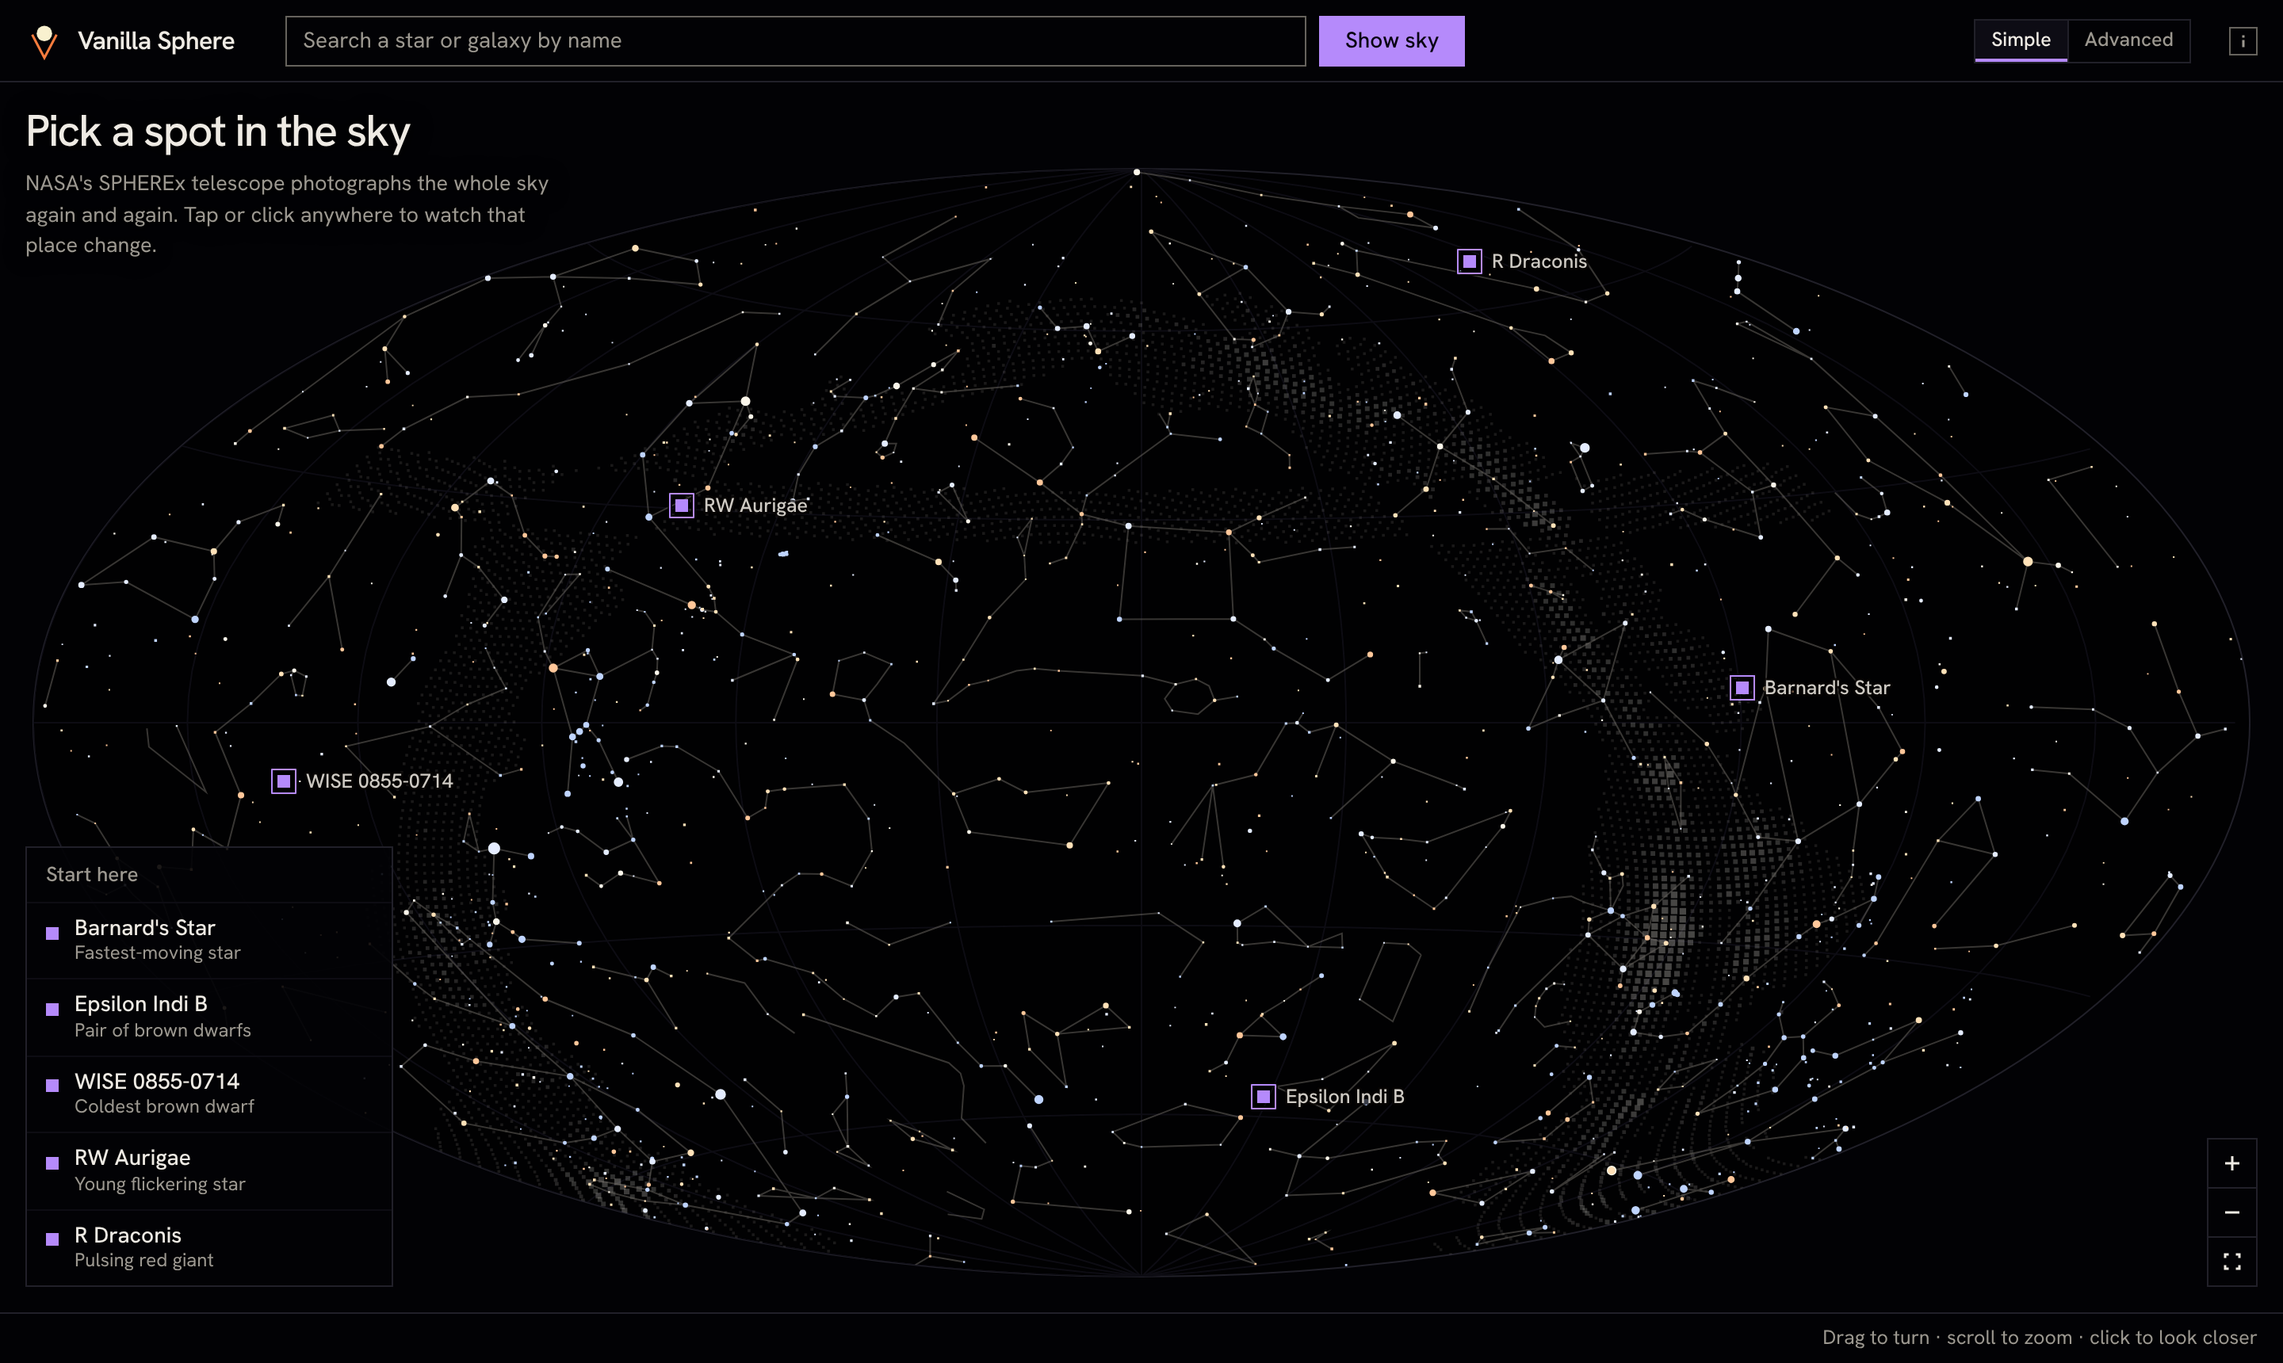
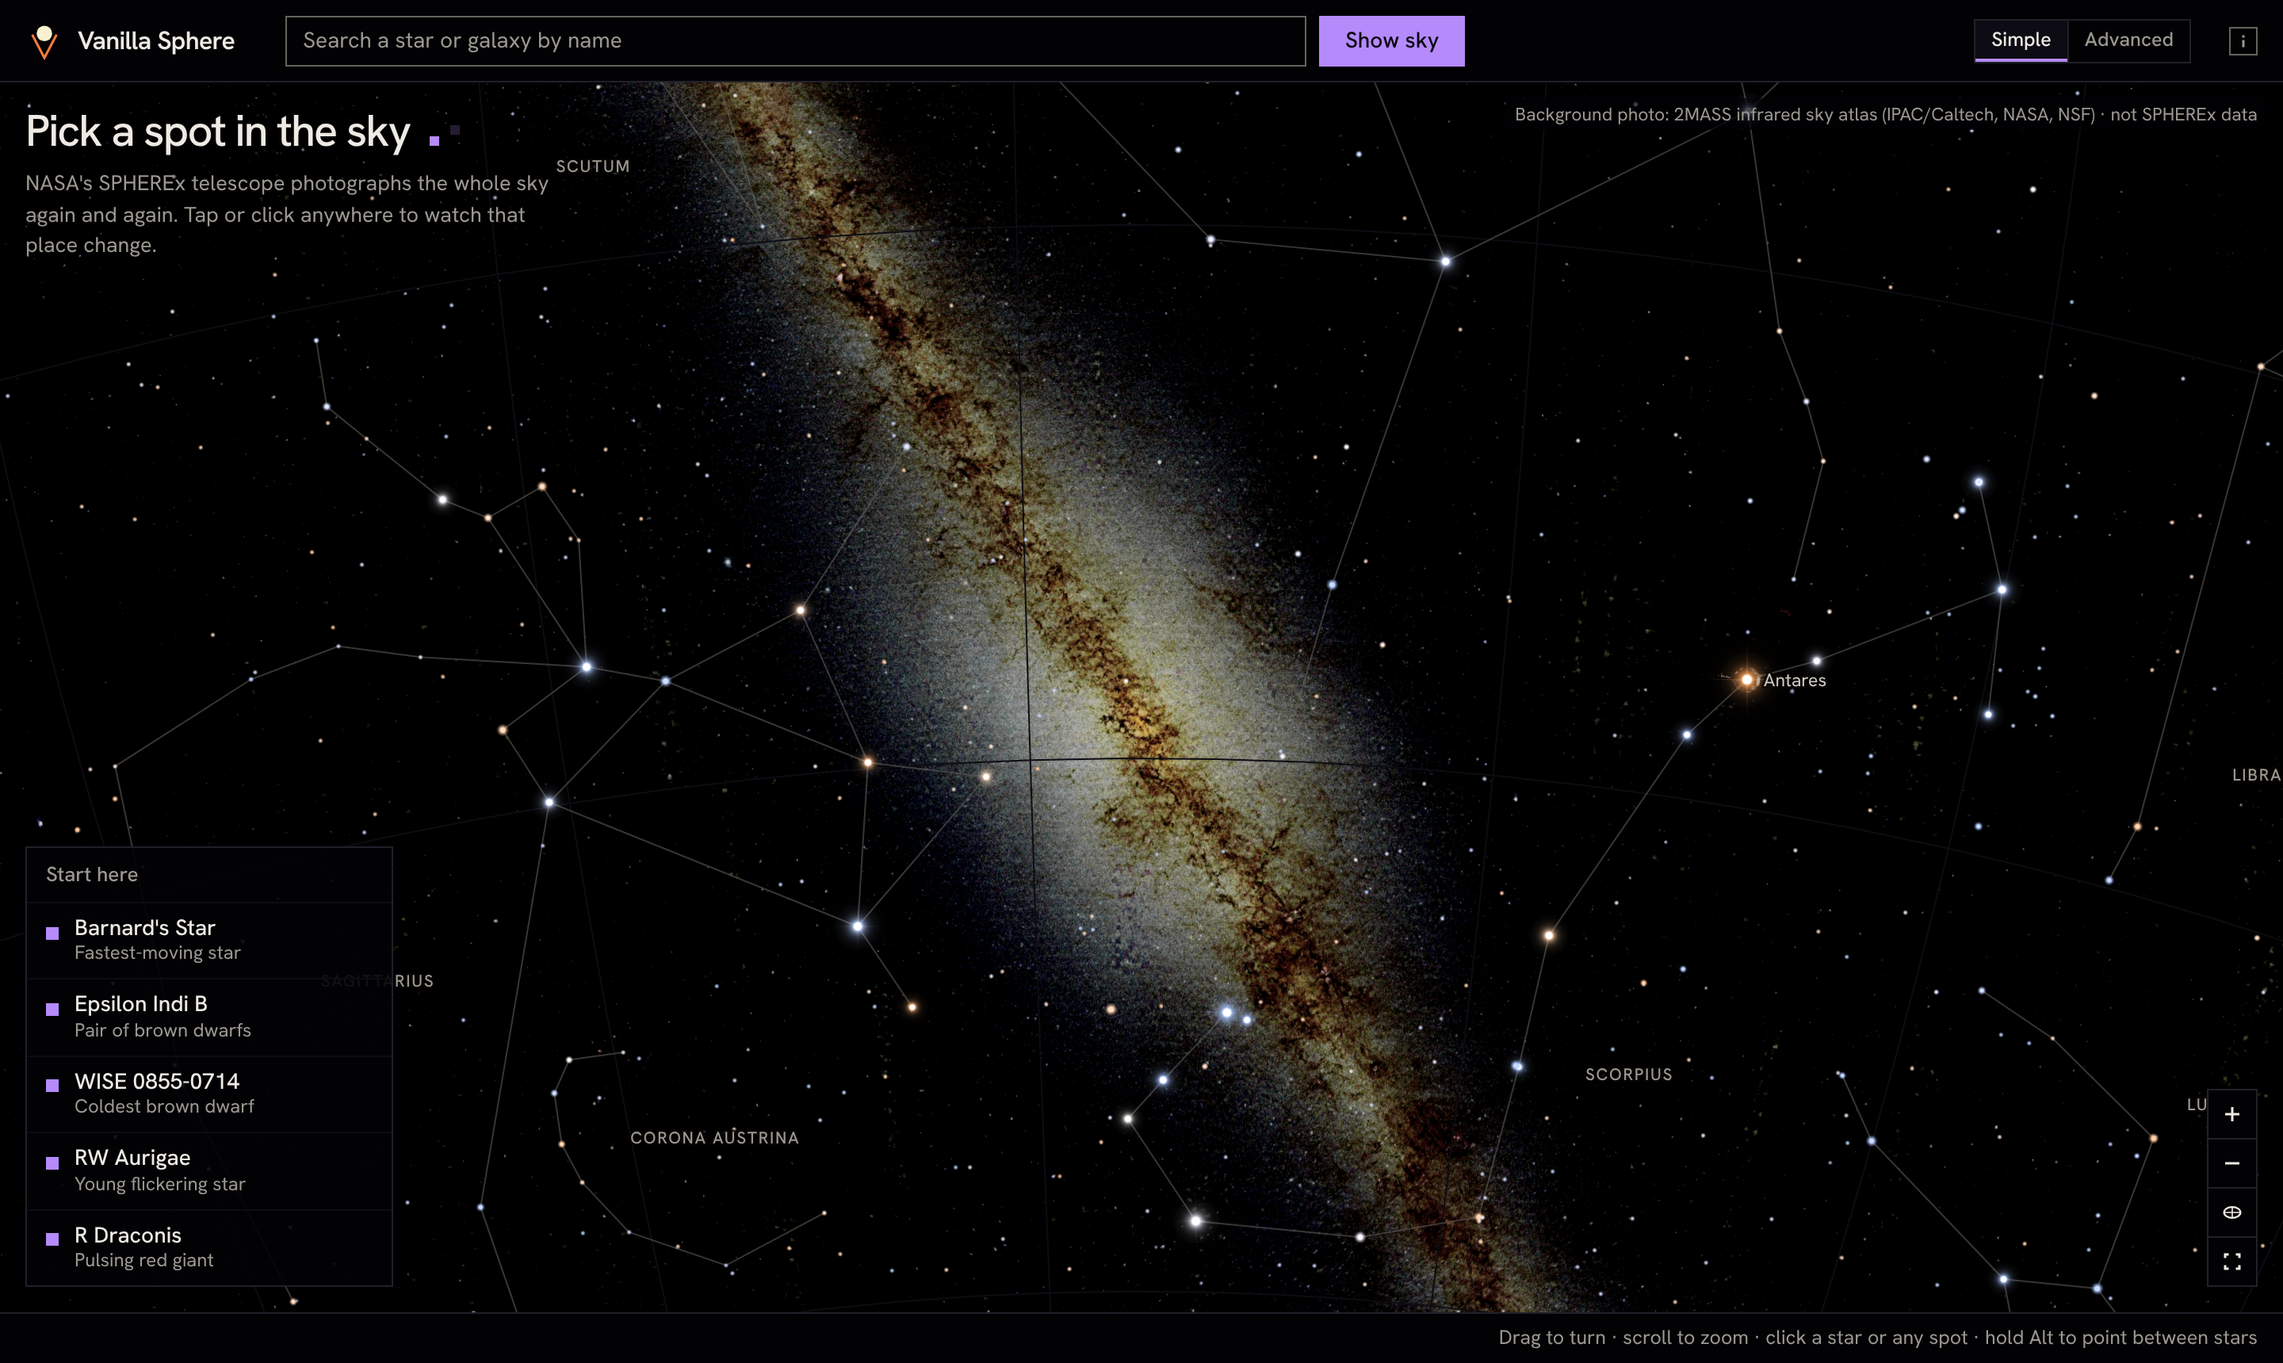
Open the sky map on the centre of the Milky Way
The map no longer starts on the whole sky. The first view looks at the
Galactic Centre (RA 266.4, Dec -29) with about 64 degrees of sky across
the screen, so the 2MASS photograph is visible from the start, with
Sagittarius to the left and Antares to the right. The heading stays on
the map until the visitor moves it. Zooming out is not limited.

Star names are counted from the whole-sky zoom, so a phone does not open
on a page of names. The note that names the photograph moves to the top
right (bottom left on phones) so it does not sit under the heading.
Asset version 30.

diff --git a/web/starmap.js b/web/starmap.js
@@ -12,6 +12,16 @@ const SkyMap = (() => {
   let cv, ctx, wrap, opt = {}, C = {};
   let W = 0, H = 0, dpr = 1, s0 = 1, cx = 0, cy = 0;
   const view = {ra: 0, dec: 0, k: 1};
+  /* The first view: the centre of the Milky Way, close enough that the sky photograph shows at full
+     strength, with Sagittarius to the left and Antares and Scorpius to the right. The zoom is set by
+     how much sky fits: `across` degrees over the width, never less than `tall` degrees over the
+     height, and at least `least` times the whole-sky zoom (where the photograph is fully in).
+     `fresh` is true until the visitor moves the map; the heading stays on the map that long. */
+  const OPEN = {ra: 266.4, dec: -29, across: 64, tall: 28, least: 4};
+  /* Stars down to the third magnitude get their names this many times closer than the whole sky.
+     The first view stays just short of it, so it opens with the map, not with a page of names. */
+  const NAMES_ALL = 6;
+  let fresh = false, wasFresh = null;
   let rot = null;                       // cos/sin of the centre, set once per frame
   let sky = null, stars = null, mw = null, cons = [], names = [], cells = null;
   let pins = [], mark = null, hover = null, hoverPin = null, hoverCon = null, hoverStar = null, busyAt = null, labels = false, wasZoomed = null;
@@ -152,6 +162,7 @@ const SkyMap = (() => {
   }
   /* The smallest zoom shows the whole sky; on a tall screen it starts closer so the sky is not a thin strip. */
   function homeZoom() { return Math.max(1, Math.min(3.2, 0.58 * H / (2 * R2 * s0))); }
+  function openZoom() { const h = homeZoom(); return Math.max(OPEN.least * h, Math.min(0.97 * NAMES_ALL * h, Math.min(W / OPEN.across, H / OPEN.tall) / (s0 * D))); }
   function redraw() { if (!dirty) { dirty = true; requestAnimationFrame(draw); } }
   /* which stars are drawn at this zoom, and how large */
   const magLimit = () => Math.min(6.5, (W < 700 ? 4.4 : 4.9) + 1.15 * Math.log2(view.k));
@@ -170,7 +181,7 @@ const SkyMap = (() => {
     dirty = false;
     if (!cv || !W || !shown) return;
     const zoomed = view.k > homeZoom() * 1.35;
-    if (zoomed !== wasZoomed) { wasZoomed = zoomed; if (opt.onView) opt.onView({zoomed}); }
+    if (zoomed !== wasZoomed || fresh !== wasFresh) { wasZoomed = zoomed; wasFresh = fresh; if (opt.onView) opt.onView({zoomed, opening: fresh}); }
     setRot();
     const s = s0 * view.k, p = [0, 0, 0], q = [0, 0, 0];
     ctx.setTransform(dpr, 0, 0, dpr, 0, 0);
@@ -314,10 +325,12 @@ const SkyMap = (() => {
       }
       if ("letterSpacing" in ctx) ctx.letterSpacing = "0px";
     }
-    if (view.k >= 2.4) {
+    // (counted from the whole-sky zoom, so a phone, which starts closer, does not fill up with names)
+    const closer = view.k / homeZoom();
+    if (closer >= 2.4) {
       ctx.font = `11.5px ${C.sans}`; ctx.textAlign = "left";
       for (const n of names) {
-        if (n.mag > (view.k >= 6 ? 3 : 1.6)) continue;
+        if (n.mag > (closer >= NAMES_ALL ? 3 : 1.6)) continue;
         project(n.v[0], n.v[1], n.v[2], p);
         if (onScreen(p, 10)) halo(n.name, p[0] + Math.max(8, 1.5 * starRadius(n.mag, grow) + 4), p[1] + 4, C.ink2);
       }
@@ -367,14 +380,14 @@ const SkyMap = (() => {
   function pan(dx, dy) {
     const s = s0 * view.k;
     view.ra += dx / s / D / Math.max(0.25, Math.cos(view.dec * D));
-    view.dec += dy / s / D;
+    view.dec += dy / s / D; fresh = false;
     clampView(); redraw();
   }
   /* zoom about a canvas point: the sky under it stays under it */
   function zoomAt(factor, px, py) {
     setRot();
     const before = unproject(px, py), k0 = view.k;
-    view.k *= factor; clampView();
+    view.k *= factor; clampView(); fresh = false;
     if (before && view.k !== k0) {
       for (let pass = 0; pass < 3; pass++) {
         setRot();
@@ -485,18 +498,18 @@ const SkyMap = (() => {
       theme(); wire(); loadData().catch(() => {});
       if (document.fonts && document.fonts.ready) document.fonts.ready.then(redraw);
     },
-    show(on) { shown = on; if (on) { busyAt = null; resize(); if (view.k === 1 && !view.set) { view.k = homeZoom(); view.set = true; } redraw(); } },
+    show(on) { shown = on; if (on) { busyAt = null; resize(); if (view.k === 1 && !view.set) { view.ra = OPEN.ra; view.dec = OPEN.dec; view.k = openZoom(); view.set = true; fresh = true; } redraw(); } },
     setPins(list) { pins = list; redraw(); },
     setMark(ra, dec) { mark = ra === null ? null : {ra, dec}; redraw(); },
-    lookAt(ra, dec, k) { view.ra = ra; view.dec = dec; if (k) view.k = k; view.set = true; clampView(); redraw(); },
+    lookAt(ra, dec, k) { view.ra = ra; view.dec = dec; if (k) view.k = k; view.set = true; fresh = false; clampView(); redraw(); },
     highlight(pin) { hoverPin = pin; redraw(); },
     idle() { busyAt = null; redraw(); },
     zoom(f) { zoomAt(f, cx, cy); },
-    home() { view.k = homeZoom(); view.dec = 0; redraw(); },
+    home() { view.k = homeZoom(); view.dec = 0; fresh = false; redraw(); },   // the whole sky
     constellation, redraw,
     /* for ambient.js: what the map shows now, where a sky position is on the canvas, a slow turn, and "nobody is pointing" */
     attach(o) { fx = o; redraw(); },
-    state() { const s = s0 * view.k; return {W, H, cx, cy, rx: 2 * R2 * s, ry: R2 * s, ra: view.ra, dec: view.dec, zoomed: !!wasZoomed, shown, busy: busyAt, hover: hoverPin ? null : hover, pin: hoverPin, star: hoverPin ? null : hoverStar, pins}; },
+    state() { const s = s0 * view.k; return {W, H, cx, cy, rx: 2 * R2 * s, ry: R2 * s, ra: view.ra, dec: view.dec, k: view.k, home: homeZoom(), zoomed: !!wasZoomed, shown, busy: busyAt, hover: hoverPin ? null : hover, pin: hoverPin, star: hoverPin ? null : hoverStar, pins}; },
     toXY(ra, dec) { setRot(); const p = project(...vec(ra, dec), [0, 0, 0]); return [p[0], p[1]]; },
     turn(dra) { view.ra += dra; clampView(); redraw(); },
     rest() { if (hover || hoverPin) tell(null); },

diff --git a/web/index.html b/web/index.html
@@ -11,18 +11,18 @@
 <meta property="og:title" content="Vanilla Sphere - watch the infrared sky change">
 <meta property="og:description" content="Pick any spot on the sky map and watch NASA SPHEREx images of it play as a movie.">
 <meta property="og:url" content="https://vanillasphere.com/">
-<meta property="og:image" content="https://vanillasphere.com/static/og.png?v=29">
+<meta property="og:image" content="https://vanillasphere.com/static/og.png?v=30">
 <meta property="og:image:width" content="1200">
 <meta property="og:image:height" content="630">
 <meta name="twitter:card" content="summary_large_image">
 <meta name="twitter:title" content="Vanilla Sphere - watch the infrared sky change">
 <meta name="twitter:description" content="Pick any spot on the sky map and watch NASA SPHEREx images of it play as a movie.">
-<meta name="twitter:image" content="https://vanillasphere.com/static/og.png?v=29">
-<link rel="icon" href="/static/favicon.svg?v=29" type="image/svg+xml">
-<link rel="apple-touch-icon" href="/static/apple-touch-icon.png?v=29">
+<meta name="twitter:image" content="https://vanillasphere.com/static/og.png?v=30">
+<link rel="icon" href="/static/favicon.svg?v=30" type="image/svg+xml">
+<link rel="apple-touch-icon" href="/static/apple-touch-icon.png?v=30">
 <link rel="preload" href="/static/fonts/HankenGrotesk.woff2" as="font" type="font/woff2" crossorigin>
 <link rel="preload" href="/static/fonts/GeistMono.woff2" as="font" type="font/woff2" crossorigin>
-<link rel="stylesheet" href="/static/style.css?v=29">
+<link rel="stylesheet" href="/static/style.css?v=30">
 </head>
 <body>
 <header class="bar">
@@ -220,13 +220,13 @@
   </aside>
 </main>
 
-<script src="/static/i18n.js?v=29"></script>
-<script src="/static/lore.js?v=29"></script>
-<script src="/static/hints.js?v=29"></script>
-<script src="/static/atlas.js?v=29"></script>
-<script src="/static/starmap.js?v=29"></script>
-<script src="/static/ambient.js?v=29"></script>
-<script src="/static/app.js?v=29"></script>
+<script src="/static/i18n.js?v=30"></script>
+<script src="/static/lore.js?v=30"></script>
+<script src="/static/hints.js?v=30"></script>
+<script src="/static/atlas.js?v=30"></script>
+<script src="/static/starmap.js?v=30"></script>
+<script src="/static/ambient.js?v=30"></script>
+<script src="/static/app.js?v=30"></script>
 <p id="netnote" class="netnote" role="status" hidden>Updating the site, back in a moment…</p>
 </body>
 </html>

diff --git a/web/style.css b/web/style.css
@@ -134,6 +134,7 @@ input[type=range]::-moz-range-thumb{width:9px;height:17px;background:var(--color
 .maphead p{margin-top:8px;font-size:13.5px;line-height:1.45;color:var(--color-muted);text-wrap:pretty}
 .maphead{transition:opacity var(--dur-short) var(--ease-out)}
 .mapscreen.zoomed .maphead{opacity:0}
+.mapscreen.zoomed.opening .maphead{opacity:1}
 .mapstart{position:absolute;left:var(--pad);bottom:48px;width:232px;border:1px solid var(--color-rule);background:color-mix(in oklab,var(--color-paper) 90%,transparent)}
 .mapstart h2{padding:9px 12px 8px;border-bottom:1px solid var(--color-rule-2)}
 .mapstart .targets{margin:0}
@@ -529,6 +530,6 @@ dd{margin:0;font-family:var(--font-measure);font-variant-numeric:tabular-nums;fo
 }
 
 /* the note that names the sky photograph behind the zoomed-in map (atlas.js) */
-.atlasnote{position:absolute;left:calc(var(--pad) - 6px);top:10px;max-width:calc(100% - 2 * var(--pad));margin:0;padding:2px 6px;font-size:11.5px;line-height:1.35;color:var(--color-muted);background:color-mix(in srgb,var(--color-paper) 72%,transparent);pointer-events:none;opacity:0;transition:opacity var(--dur-short) var(--ease-out)}
+.atlasnote{position:absolute;right:calc(var(--pad) - 6px);top:10px;max-width:calc(100% - 2 * var(--pad));margin:0;padding:2px 6px;font-size:11.5px;line-height:1.35;color:var(--color-muted);background:color-mix(in srgb,var(--color-paper) 72%,transparent);pointer-events:none;opacity:0;transition:opacity var(--dur-short) var(--ease-out)}
 .mapscreen.atlas-on .atlasnote{opacity:1}
-@media (max-width:700px){.atlasnote span{display:none}}
+@media (max-width:700px){.atlasnote{right:auto;left:calc(var(--pad) - 6px);top:auto;bottom:84px;max-width:calc(100% - 2 * var(--pad) - 48px)}.atlasnote span{display:none}[data-mapfull] .atlasnote{bottom:calc(16px + env(safe-area-inset-bottom, 0px))}}

diff --git a/web/app.js b/web/app.js
@@ -1200,7 +1200,7 @@ function init() {
   $("refrow").hidden = S.mode !== "diffref";
   setUi(prefs.ui, true);
   SkyMap.init($("map"), {coords: () => S.ui === "adv", onPick: mapPick, onHover: mapHover, onReady: () => { if (S.t) showStory(S.t); },
-    onView: (v) => $("mapscreen").classList.toggle("zoomed", v.zoomed)});
+    onView: (v) => { $("mapscreen").classList.toggle("zoomed", v.zoomed); $("mapscreen").classList.toggle("opening", !!v.opening); }});
   buildFeatured();
   $("ui").addEventListener("click", (ev) => { const b = ev.target.closest("button"); if (b && b.dataset.v !== S.ui) setUi(b.dataset.v); });
   $("toadv").addEventListener("click", () => setUi("adv"));

diff --git a/docs/viewer.md b/docs/viewer.md
@@ -201,11 +201,27 @@ snapped to; `app.js` turns that into the map tag (pin, then a star with a name
 or a designation, then constellation, with the text from `lore.js`), and the
 map brightens the figure of the constellation under the pointer.
 
+**The first view.** The first time the map is shown it looks at the centre of
+the Milky Way (`OPEN` in `starmap.js`: RA 266.4, Dec -29) instead of the whole
+sky, so the photograph of the real sky is on screen from the start. The zoom
+(`openZoom`) is set by how much sky fits: 64 degrees across the width, never
+less than 28 degrees over the height, at least 4 times the whole-sky zoom
+(where the photograph is fully in) and just short of 6 times, where every
+star to the third magnitude would get its name. That is 5.2 times the
+whole-sky zoom at 1440 x 900, 5.6 at 1920 x 1000 and 4 on a phone. A view
+asked for by `lookAt` before the map is shown wins over it. Until the visitor
+moves the map, `onView` reports `opening: true` and `app.js` keeps the class
+`opening` on `#mapscreen`, which keeps the heading on the map although it is
+zoomed in. Zooming out is not limited: the whole sky is one button or a few
+wheel steps away. Star names are counted from the whole-sky zoom
+(`view.k / homeZoom()`), so a phone, which starts closer, does not fill up
+with names.
+
 **Snapping to stars.** Pointing and picking snap to the nearest drawn star
 (`starAt`): the aiming frame jumps onto it, the readout shows the star's own
 coordinates and a click opens the star, not a place a few pixels beside it. A
-star is within reach when the pointer is within 6 px of its disc at the opening
-zoom, growing by 3 px for each doubling of the zoom up to 16 px, and 1.6 times
+star is within reach when the pointer is within 6 px of its disc at the
+whole-sky zoom, growing by 3 px for each doubling of the zoom up to 16 px, and 1.6 times
 that for a finger; a finger also prefers the brighter of two close stars.
 Holding Alt points and picks freely, between the stars. A star with a proper
 name (493 of them) is opened by that name, so the view carries the name and the

diff --git a/docs/features.md b/docs/features.md
@@ -28,11 +28,16 @@ implements it. Implementation detail is in [imaging engine](imaging-engine.md),
 
 ## 1. Sky map start screen
 
-The product opens on a drawn map of the whole sky, the same for both modes.
+The product opens on a drawn map of the sky, the same for both modes. The
+first view looks at the centre of the Milky Way, close enough that the
+photograph of the real sky shows behind the chart: Sagittarius to the left of
+the dust lanes, Antares and Scorpius to the right. About 64 degrees of sky
+fit across the screen. The whole-sky button (or zooming out) shows the entire
+sky as one oval with the featured targets marked.
 
 ![The sky map start screen](img/sky-map.png)
 
-*The start screen: a drawn map of the whole sky with the featured targets marked.*
+*The start screen: the map opens on the centre of the Milky Way.*
 
 - **Projection.** Hammer equal-area, east to the left as on the sky. Dragging
   turns the sphere; near the centre the scale is uniform, so a zoomed-in map is
@@ -43,7 +48,7 @@ The product opens on a drawn map of the whole sky, the same for both modes.
   measured colour index and, when the map is zoomed in, looks like a star in
   a photograph: a bright core, a soft glow and, for the brightest, thin
   spikes.
-- **The real sky behind it.** Zoomed in past about twice the opening view, a
+- **The real sky behind it.** Zoomed in past about twice the whole-sky view, a
   photograph of the real sky fades in behind the chart: the 2MASS
   near-infrared atlas, served by the NASA/IPAC Infrared Science Archive. The
   Milky Way's dust lanes, the Orion Nebula, clusters and countless faint
